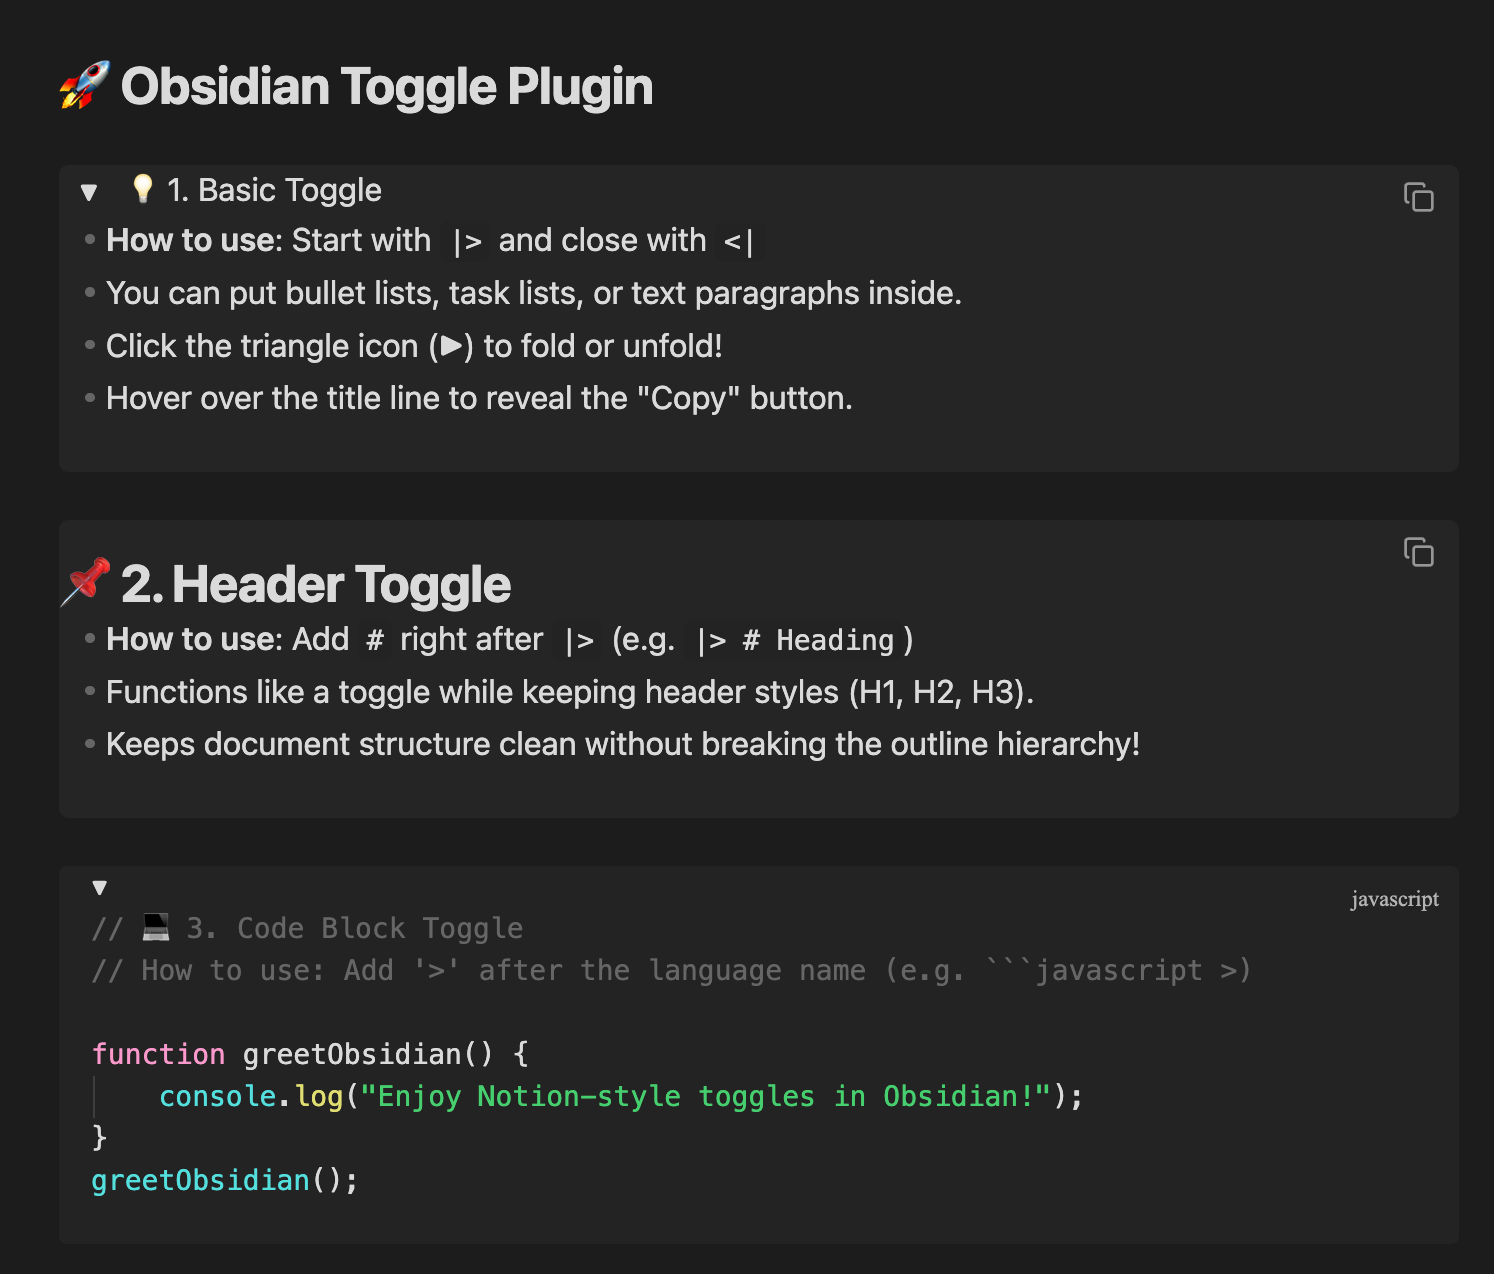
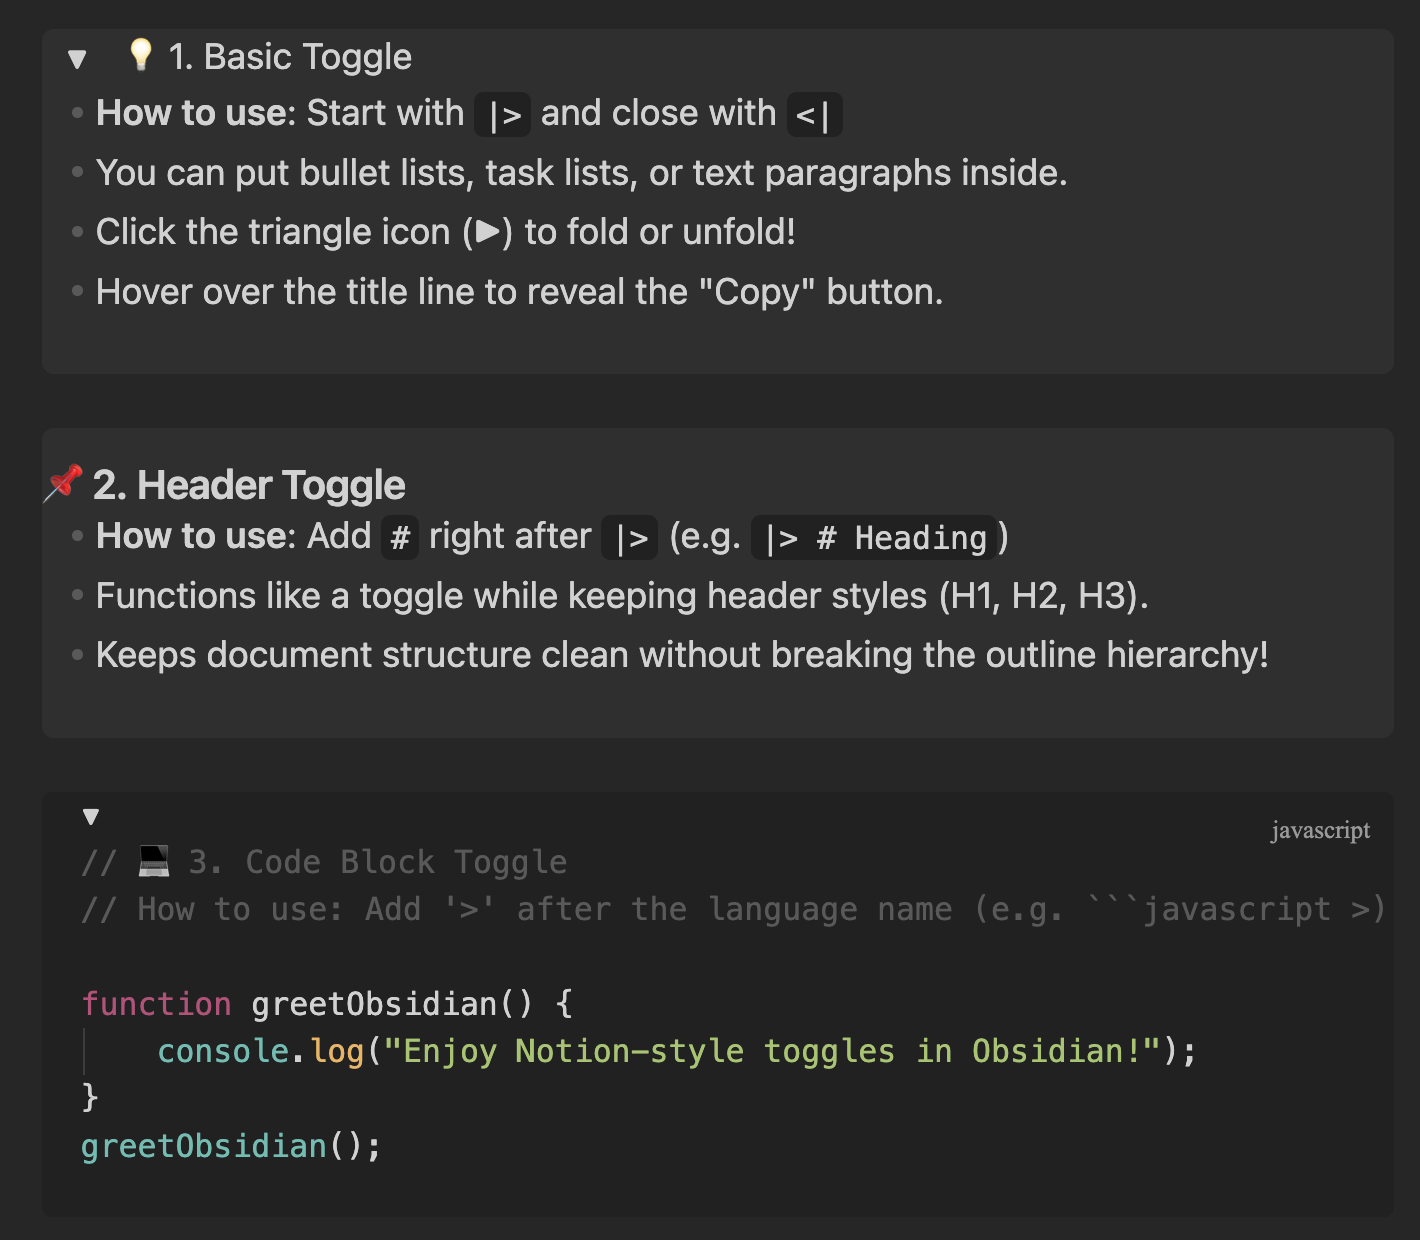
1.1.3 버전으로 리드미 수정

diff --git a/README.md b/README.md
@@ -3,6 +3,24 @@
 A premium, **Notion-style toggle plugin** for Obsidian. 
 The `|>` syntax is automatically rendered as a **clickable triangle icon (▶)**, allowing you to fold and unfold content with a single click.
 
+---
+
+## 🚀 What's New in v1.1.3 (vs v1.0.5)
+
+Here are the 7 major upgrades and enhancements introduced since early versions (v1.0.5):
+
+1. **Smooth 90° Triangle Rotation Animation**: Clicking the triangle (`▶`) smoothly rotates 90° with a refined Notion/Apple-style animation curve (`cubic-bezier`), completely replacing the old abrupt character replacement.
+2. **Smart Hover Copy Button (1st & 2nd Line)**: For standard and header toggles, the copy button remains cleanly hidden by default and gracefully fades in when hovering over either the 1st (title) or 2nd line—functioning reliably even while actively editing.
+3. **Compact Centering on Fold**: When collapsed, the copy button automatically shrinks into a compact 20px button and aligns to the exact vertical center (`top: 50%`), eliminating awkward overflow outside the single-line capsule.
+4. **Native Code Block Synchronization**: Code block toggles (` ```> `) now feature the exact same square hover box effect as Obsidian's native code blocks, and automatically hide while editing code inside.
+5. **Full 4-Corner Capsule Rounding**: Collapsing any toggle (standard, header, or code block) smoothly rounds both the top and bottom corners, presenting a unified, beautiful capsule/card appearance.
+6. **Accidental Click Protection (Anti-Ghosting)**: Clicking right beside the triangle icon or opening code fence tag no longer abruptly flashes raw markdown syntax (`|>`, ` ```> `) unless explicitly cursor-focused inside.
+7. **Clean UI & Duplicate Marker Elimination**: Duplicate native Obsidian fold arrows (`>`) and ellipsis indicators (`...`) are stripped away, keeping only the clean, interactive toggle triangle.
+
+---
+
+### Preview
+
 ### 1. Expanded
 ![Toggle Expanded](https://raw.githubusercontent.com/jawoojo/obsidian-toggle/main/image/unfold.png)
 
@@ -26,7 +44,6 @@ Content...
 <|
 ```
 
-
 ### Header Toggle
 You can use a standard Markdown header as the title of your toggle. 
 It functions exactly like a normal toggle but applies the header's styling (font size, weight, etc.) to the title line.
@@ -48,6 +65,7 @@ Add a `>` after the opening code fence to create a collapsible code block.
 *(Ends with ```` ``` ```` as usual)*
 
 ---
+
 ## Support
 If you find this plugin helpful, consider buying me a coffee!
 
@@ -56,16 +74,3 @@ If you find this plugin helpful, consider buying me a coffee!
 ## License
 
 MIT
-
----
-
-## Release Notes
-
-### [1.1.2]
-
-- **Full 4-Corner Rounding on Fold**: When toggles (standard, header, or code block) are folded, the bottom corners are now smoothly rounded alongside the top corners for a complete capsule/card appearance.
-- **Accidental Click Protection**: Clicking right next to the triangle icon (in both standard toggles `|>` and code block toggles ` ```> `) no longer reveals raw syntax. It stays intact unless explicitly focused inside.
-- **Cleaner Fold UI**: Removed duplicate Obsidian fold arrows (`>`) and ellipsis placeholders (`...`) from standard and code block toggles, keeping only the clean triangle icon (`▶`/`▼`).
-- **Native-Like Copy Button**: Matched the copy button UX with Obsidian's native code blocks: visible by default, highlights on hover, and automatically hides while editing inside the toggle.
-- **Strict Trigger Precision**: Auto-completion and toggle rendering strictly require `|>` at the exact start of the line without preceding whitespaces.
-
